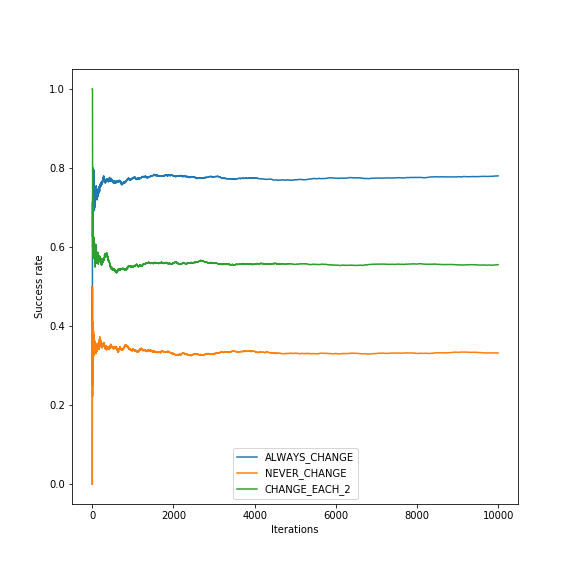
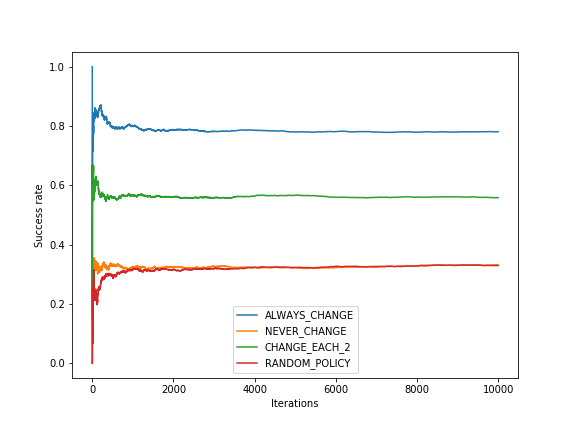
Added random policy to list of assessed

diff --git a/04_Reinforcement/montecarlo.py b/04_Reinforcement/montecarlo.py
@@ -45,6 +45,14 @@ def change_doors(current_door, another_door, change=True):
     else:
         return (current_door, another_door)
 
+# Política aleatória
+def change_random(current_door, another_door):
+    change = rand.randint(0, 1)
+    if ( change ):
+        return (another_door, current_door)
+    else:
+        return (current_door, another_door)
+
 # Política de alternar (OPEN_EVERY_N_TRIALS)
 def alternate_each_n(player_door, another_door, each_n, trial_index):
     if trial_index % each_n == 0:
@@ -70,6 +78,8 @@ def evaluate_policy_dt( policy, n_doors, trials ):
             (player_door, keep_closed) = change_doors(player_door, keep_closed, False)
         elif policy == 'CHANGE_EACH_2':
             (player_door, keep_closed) = alternate_each_n(player_door, keep_closed, 2, i)
+        elif policy == 'RANDOM_POLICY':
+            (player_door, keep_closed) = change_random(current_door, another_door)
         else:
             print('Policy not known... Please choose a valid one!\n')
             return -1
@@ -91,9 +101,9 @@ def main():
     n_doors = 3     # Número de portas
     trials = 10000  # Número de tentativas
 
-    policies = ['ALWAYS_CHANGE', 'NEVER_CHANGE', 'CHANGE_EACH_2']
+    policies = ['ALWAYS_CHANGE', 'NEVER_CHANGE', 'CHANGE_EACH_2', 'RANDOM_POLICY']
 
-    fig = plt.figure(figsize=(8, 8))
+    fig = plt.figure(figsize=(8, 6))
     ax = plt.subplot(111)
     
     for policy in policies:
